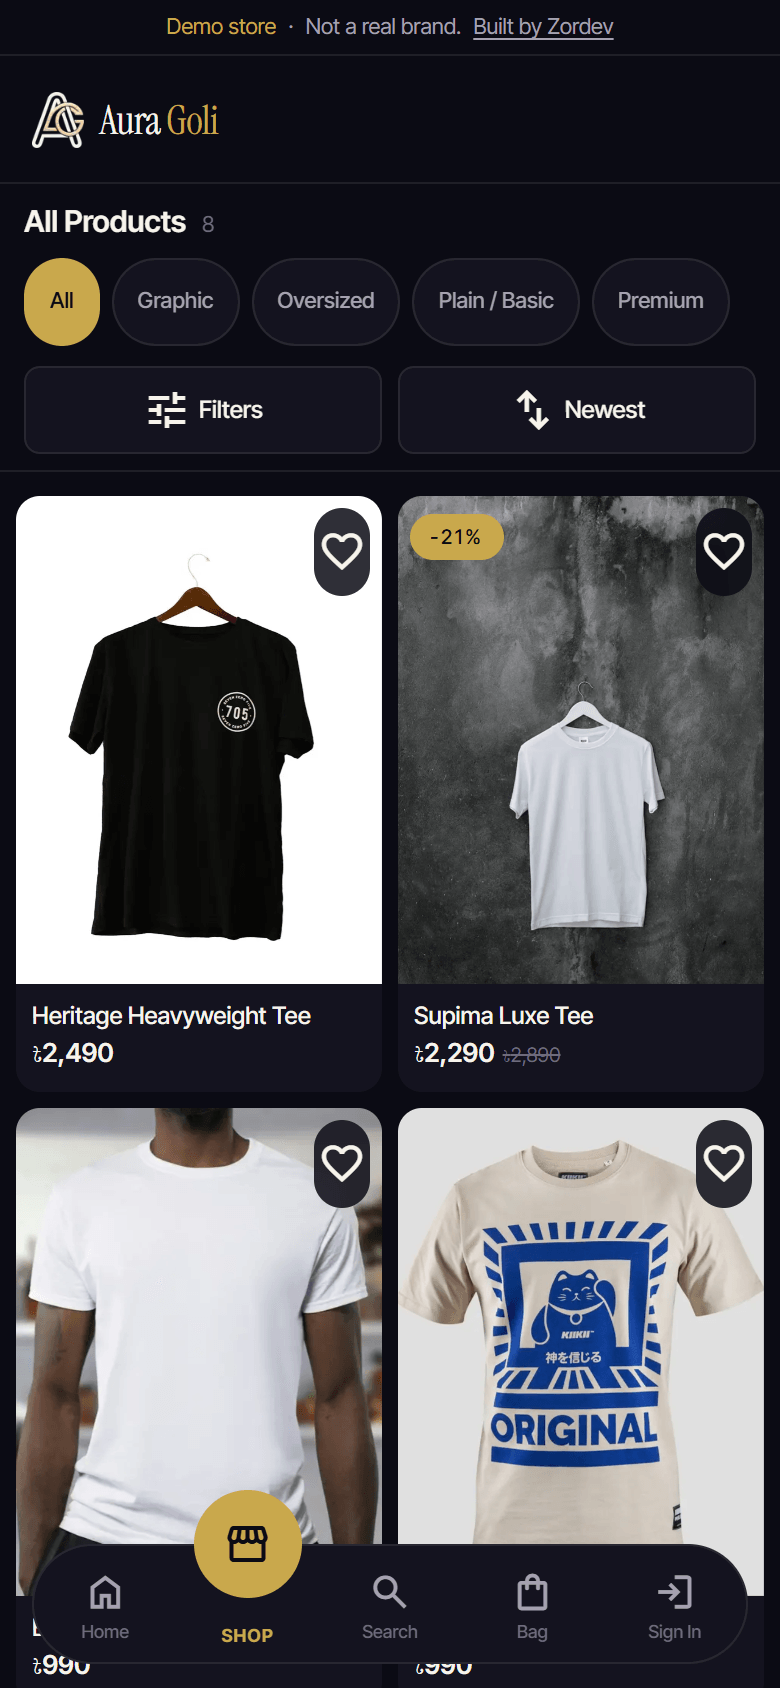
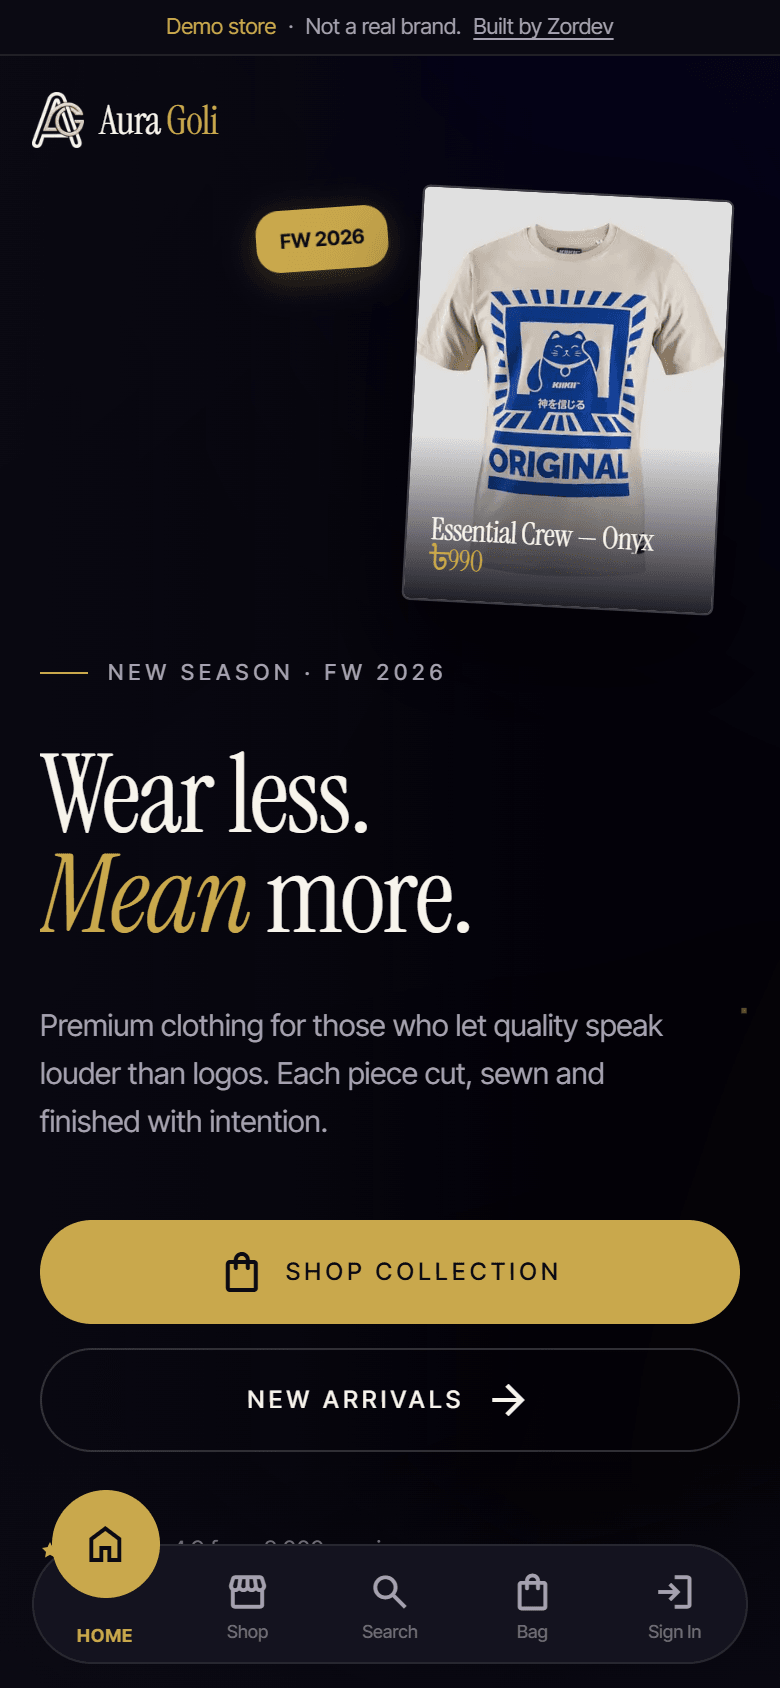
Case studies: screenshots and copy for the redesigned demo sites

diff --git a/content/work.ts b/content/work.ts
@@ -91,6 +91,7 @@ export const caseStudies: CaseStudy[] = [
     problem:
       "Small fashion brands need more than a storefront: an admin they can run alone, local payment methods, and a way to answer customer messages at any hour.",
     approach: [
+      "A cinematic storefront: a hero that renders instantly without WebGL, product cards that reveal a second photo on hover, and a sticky add-to-bag bar on phones.",
       "Storefront with filters, live search, coupons, checkout and order tracking without login.",
       "Customer accounts with Google sign-in, wishlist and loyalty points.",
       "Admin console with revenue charts, product variants, an order pipeline, flash sales, review moderation and an audit log.",
@@ -136,7 +137,8 @@ export const caseStudies: CaseStudy[] = [
       "Brand sites often look like every other template. This concept explores telling a product story through interaction without making the page heavy.",
     approach: [
       "A flame cursor that lights candles as you move, with tap-to-light on touch screens.",
-      "Pinned scroll sections and a smoke trail that follows the page.",
+      "A collection shelf of five hand-drawn vessels that light one by one, each casting its own coloured pool of light and revealing its scent notes.",
+      "Pinned scroll sections, a smoke trail that follows the page, and a closing candle you can blow out and relight.",
       "Artwork compressed to 8 WebP files and a single small script bundle.",
       "A full reduced-motion fallback and keyboard navigation.",
     ],
@@ -147,7 +149,7 @@ export const caseStudies: CaseStudy[] = [
       },
     ],
     results: [],
-    demonstrates: ["Distinctive brand storytelling", "About 62 KB of JavaScript in total", "Accessible motion design"],
+    demonstrates: ["Distinctive brand storytelling", "About 60 KB of JavaScript in total", "Accessible motion design"],
     gallery: [
       { src: "/work/ember-and-oak/desktop.png", alt: "Ember & Oak home page", device: "desktop" },
       { src: "/work/ember-and-oak/mobile.png", alt: "Ember & Oak on mobile", device: "mobile" },
@@ -220,6 +222,7 @@ export const caseStudies: CaseStudy[] = [
       "Most visitors to a contractor's site have a broken air conditioner and a phone in their hand. They want a price they can trust, a time slot and a number to call.",
     approach: [
       "A four-step booking form (what's wrong, when, where, who), checked at every step and emailed to the office.",
+      "A full-screen photo hero with the booking card hanging over its edge, and a thermostat dial that sweeps from January to July as you scroll.",
       "A sticky call bar on phones and an 'open now' indicator driven by the business hours.",
       "Service, maintenance-plan and service-area pages written for local search, with structured data for the business.",
       "Spam protection on the form: a hidden trap field and a limit on repeat submissions.",
